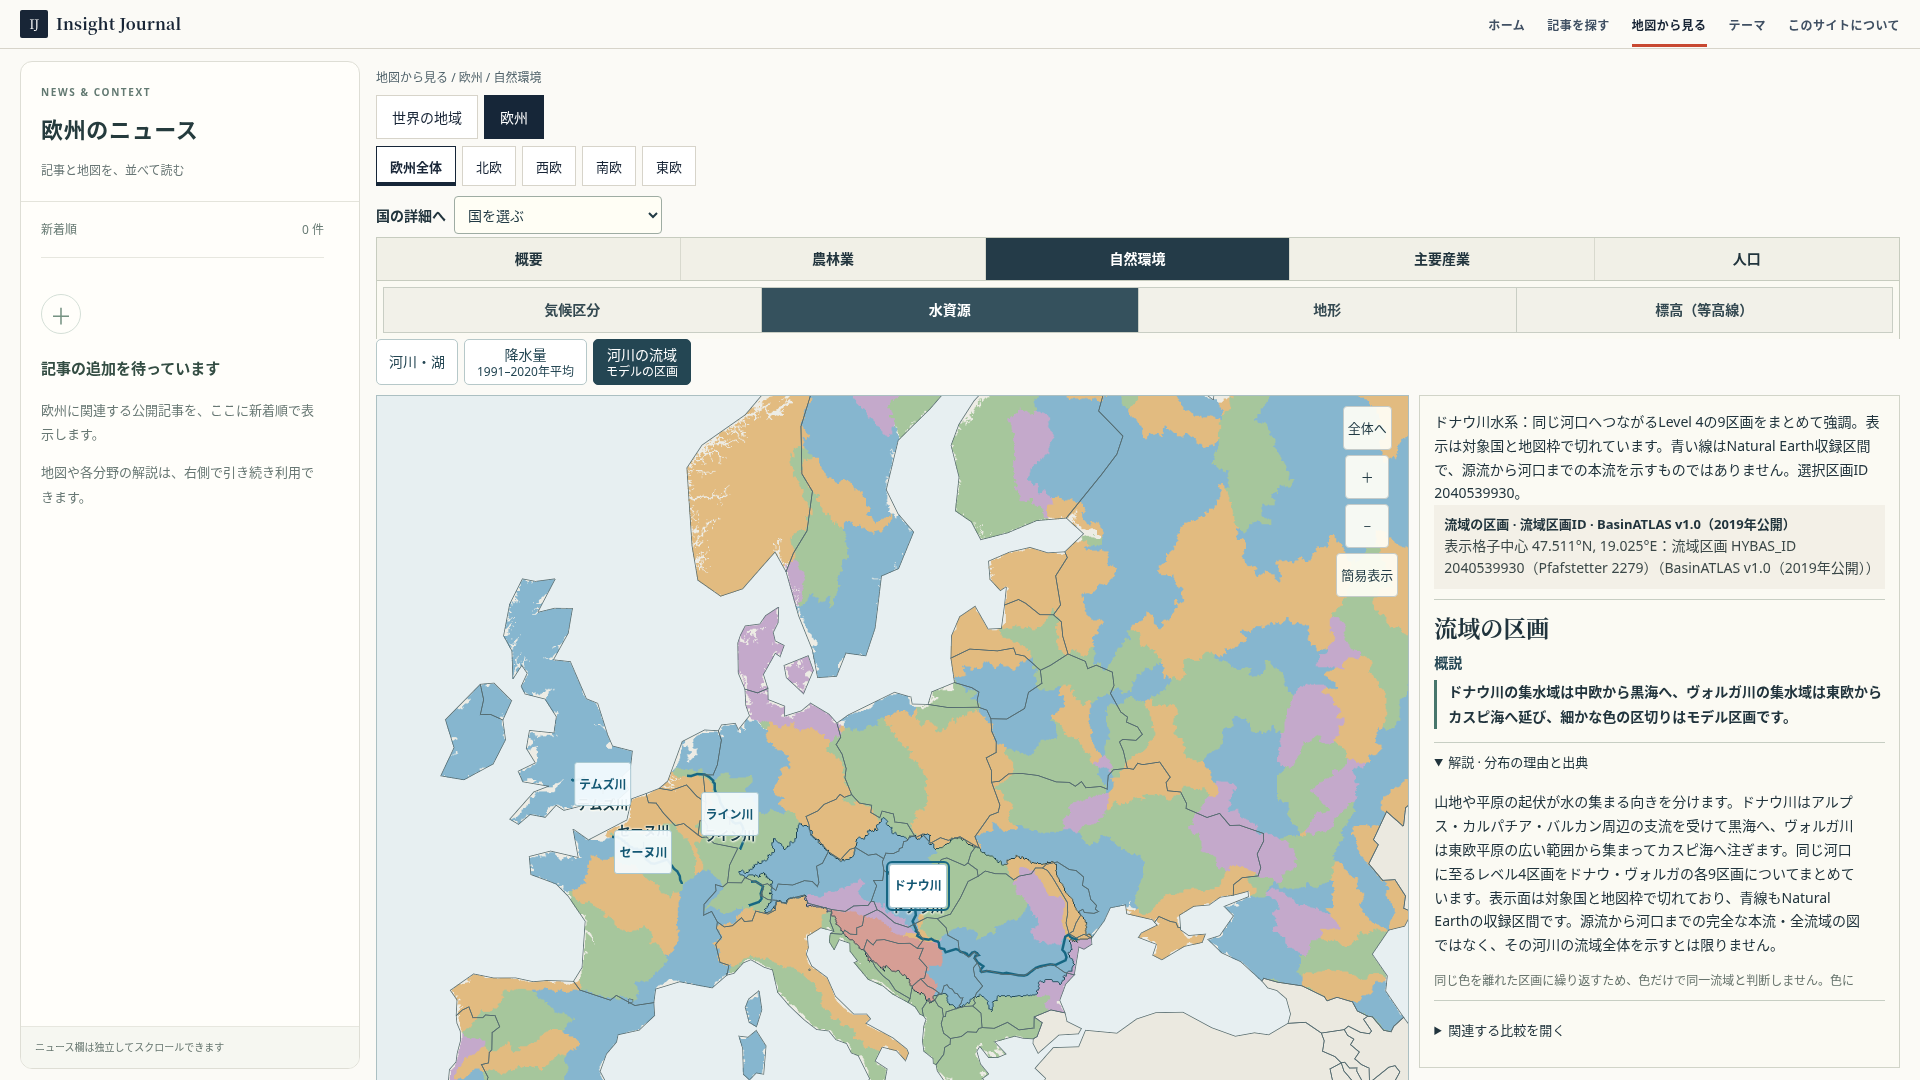
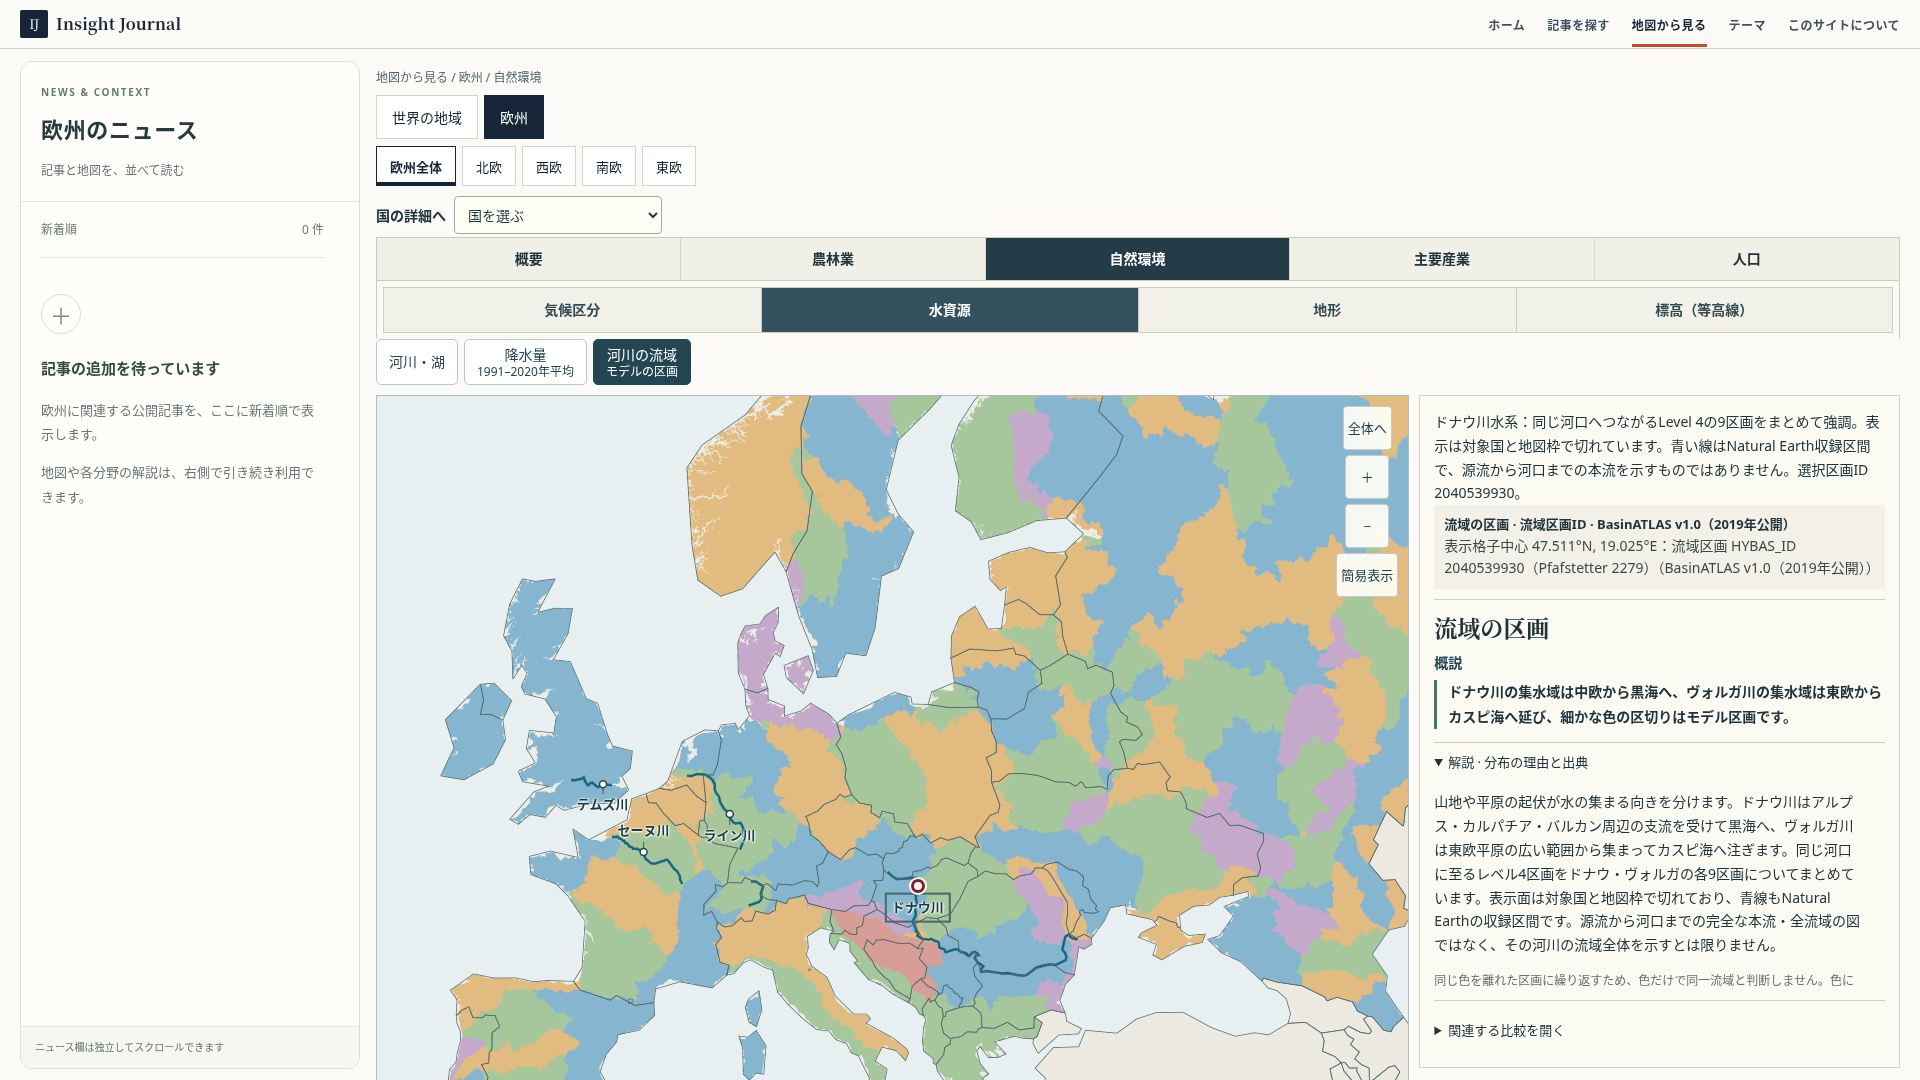
Avoid duplicate river label hit targets in drainage

Changed region(s): [[0.2812, 0.7028, 0.4062, 0.825], [0.4375, 0.7944, 0.5, 0.8556]]

diff --git a/src/lib/atlas-europe-explorer.ts b/src/lib/atlas-europe-explorer.ts
@@ -274,7 +274,7 @@ export function initEuropeAtlas() {
   function positionRiverLabels(){
     const rect=stage.getBoundingClientRect();
     for(const {node,label} of riverLabels){
-      node.hidden=!['water','drainage'].includes(state.layer);node.setAttribute('aria-pressed',String(state.feature===label.id));if(node.hidden)continue;
+      node.hidden=state.layer!=='water';node.setAttribute('aria-pressed',String(state.feature===label.id));if(node.hidden)continue;
       const point=overlayProject(label.coordinates);node.style.left=point.x+'px';node.style.top=point.y+'px';
       node.hidden=point.x<44||point.x>rect.width-44||point.y<50||point.y>rect.height-48;
     }
